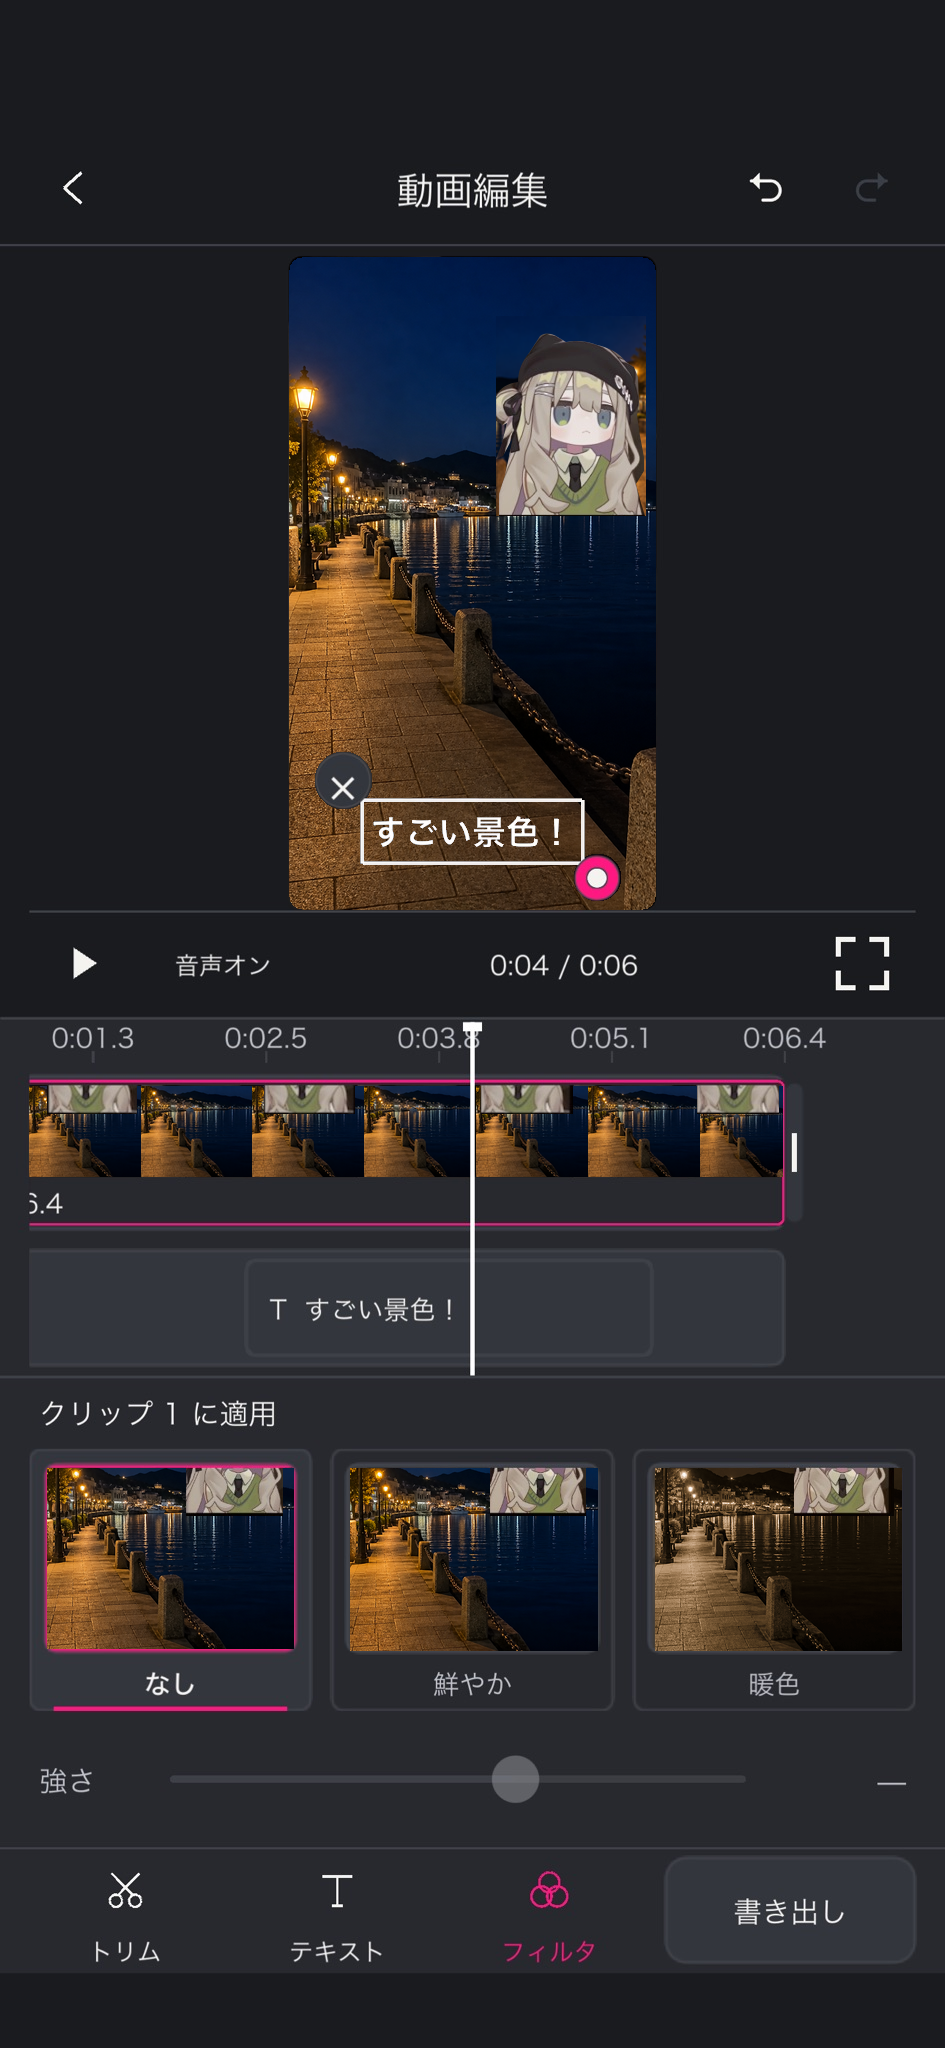
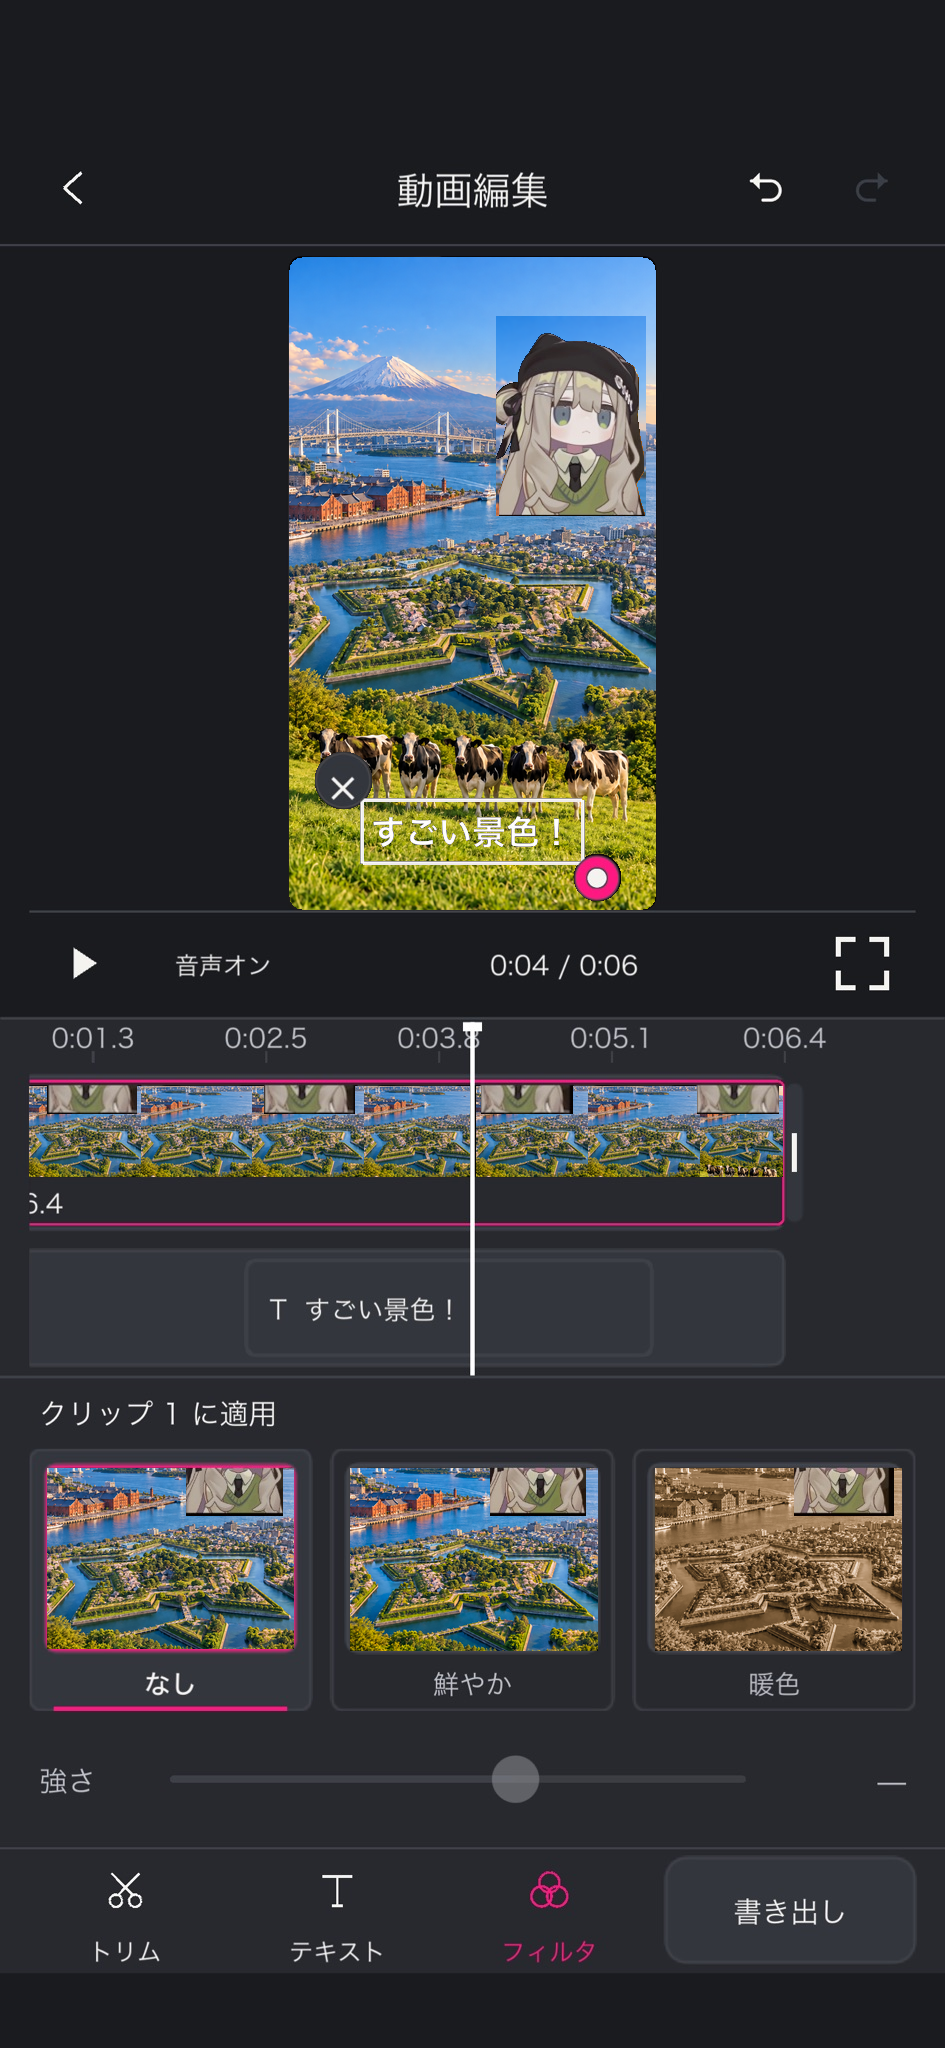
動画編集の背景を指定の絶景に更新 (#3)

diff --git a/app/page.tsx b/app/page.tsx
@@ -44,7 +44,7 @@ export default function Home() {
       <section className="section editing-section" id="editing" aria-labelledby="editing-heading">
         <div><div className="tag">動画の編集</div><h2 id="editing-heading">動画をカットして、<br />文字を入れる</h2><p>撮影した動画をアプリで編集できます。<br />文字の位置や大きさ、動画の色味も調整できます。</p>
           <dl className="editing-list"><div><dt>トリム</dt><dd>使いたい部分を残す</dd></div><div><dt>テキスト</dt><dd>文字を入れて、位置や大きさを調整</dd></div><div><dt>フィルタ</dt><dd>クリップごとに色味を変える</dd></div></dl></div>
-        <figure><Screen file="video-editor.webp" alt="トリム・テキスト・フィルタを使う動画編集画面" className="editor-device" /><figcaption><span className="caption">動画編集画面</span><Credit /></figcaption></figure>
+        <figure><Screen file="video-editor.webp?v=scenery-20260913" alt="富士山・赤レンガ倉庫・五稜郭・レインボーブリッジと牛の景色に「すごい景色！」と文字を入れた動画編集画面" className="editor-device" /><figcaption><span className="caption">動画編集画面</span><Credit /></figcaption></figure>
       </section>
       <section className="section avatar-section" id="avatar" aria-labelledby="avatar-heading">
         <div><div className="tag">アバター</div><h2 id="avatar-heading">使うアバターを選ぶ</h2><dl className="avatar-methods">

diff --git a/docs/assets.md b/docs/assets.md
@@ -16,9 +16,16 @@ additional rights to the depicted avatars.
 | log-review.webp | Saving a short log |
 | log-join.webp | Joining restaurant logs |
 | vlog-restaurant.webp | Completed video example |
-| video-editor.webp | Video editing screen |
+| video-editor.webp | Video editing screen; scenic background updated September 13, 2026 |
 | expression-neutral.webp, expression-calm.webp, expression-star.webp | Expression examples |
 
 `app-store-badge-ja.svg` is Apple's unmodified Japanese Download on the App Store
 badge from [Apple Marketing Tools](https://tools.applemediaservices.com/api/badges/download-on-the-app-store/black/ja-jp?size=250x83).
 It is displayed without a link until the app's destination URL is available.
+
+On September 13, 2026, the owner requested a new landscape in the video editor:
+Mount Fuji, red brick warehouses, Goryokaku, Rainbow Bridge and a row of cows.
+The background was created with the built-in image generation tool. The original
+avatar, caption, editing controls and thumbnail avatar pixels were preserved;
+the preview, timeline and filter backgrounds were updated together. Pixel checks
+verified unchanged UI outside those regions and a lossless WebP output.
